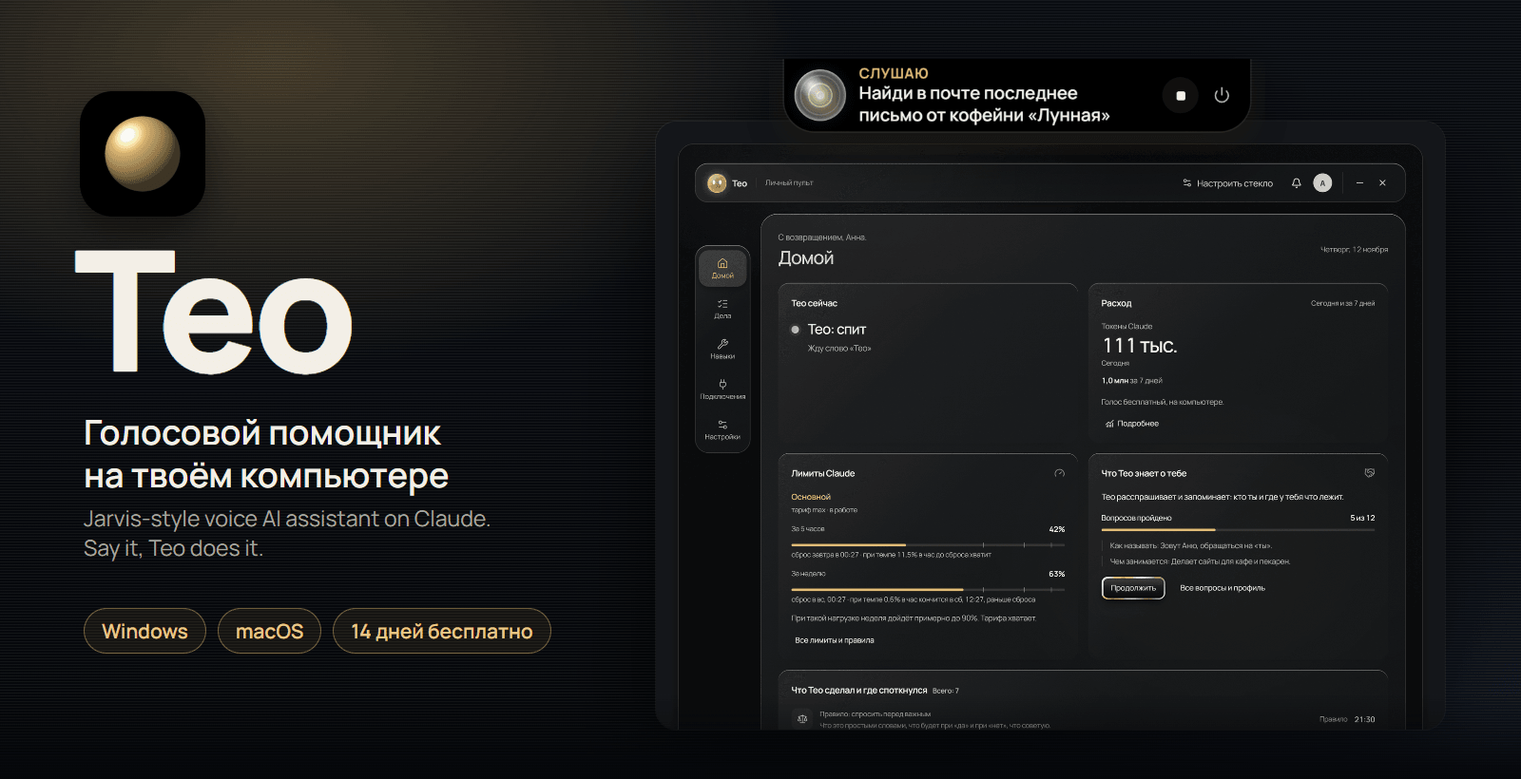
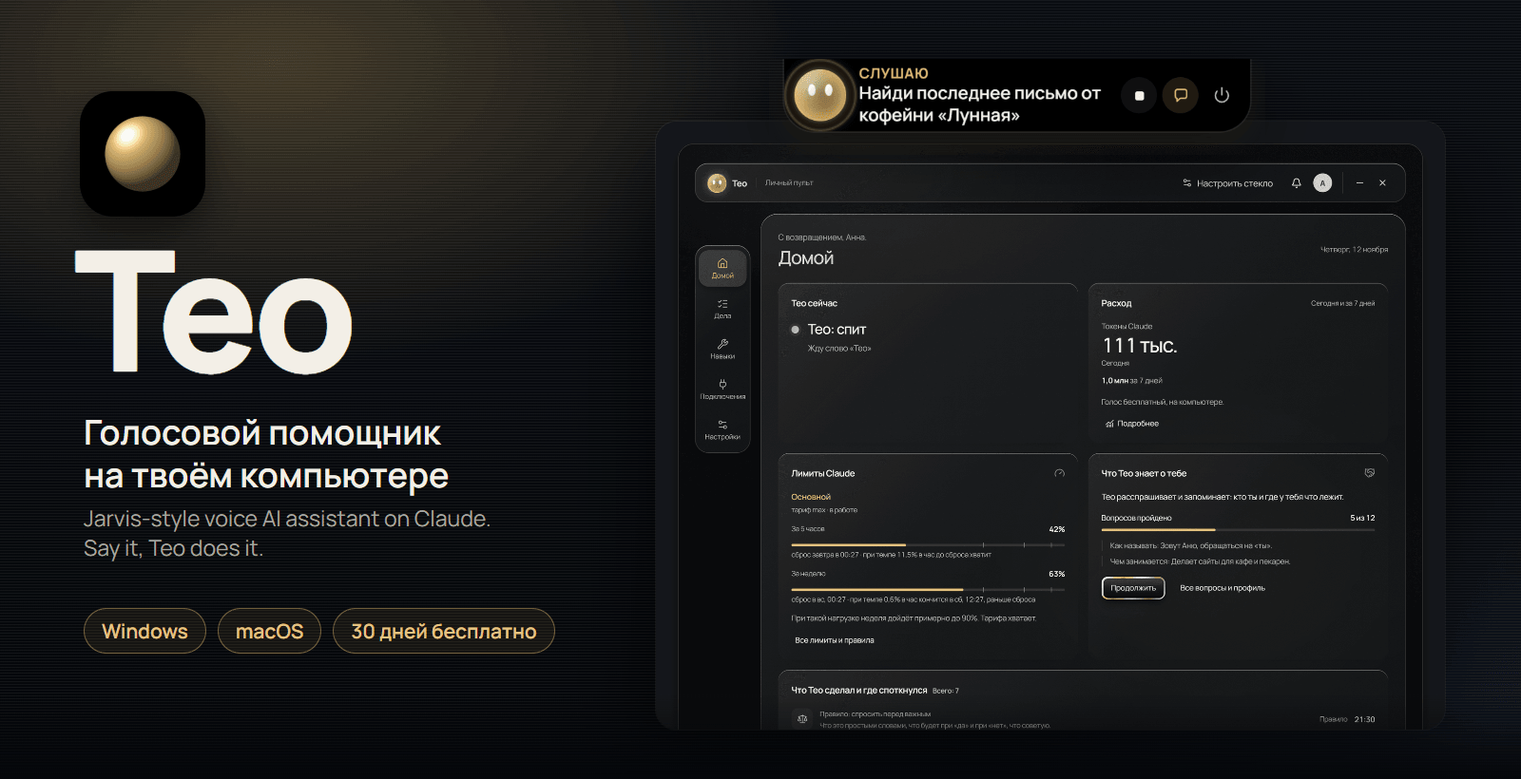
30 дней бесплатно везде, автор для инвесторов, капсула с Dots на снимках
- README ru и en, FAQ, дорожная карта: пробный период 30 дней (история версий не тронута)
- Блок «Автор / Author»: Александр Тарарушкин, Instagram @saint4ai для инвесторов и партнёров
- Скачивание: ссылки на последний выпуск, установщик Windows 1.0.0-beta.4
- Обложка, social preview и лист капсулы пересняты с текущей программы (rel-8): аватар Dots с глазами, плашка «30 дней бесплатно»

Changed region(s): [[0.5, 0.061, 0.75, 0.1829], [0.2188, 0.7927, 0.375, 0.8232]]

diff --git a/README.md b/README.md
@@ -6,15 +6,15 @@
 
 **Jarvis на твоём компьютере.** Скажи «Тео», и он откроет программу, найдёт файл, разберёт почту или поправит таблицу. Работает на Claude. Есть версии для Windows и macOS.
 
-Бета 1.0.0-beta.3: **14 дней бесплатно, весь функционал. Потом $10 в месяц.** Для работы Тео нужна подписка Claude от $20 в месяц.
+Бета 1.0.0-beta.4: **30 дней бесплатно, весь функционал. Потом $10 в месяц.** Для работы Тео нужна подписка Claude от $20 в месяц.
 
 ![Статус](https://img.shields.io/badge/%D1%81%D1%82%D0%B0%D1%82%D1%83%D1%81-%D0%B1%D0%B5%D1%82%D0%B0-e8c887?style=flat-square)
 ![Windows](https://img.shields.io/badge/Windows-10%20%D0%B8%2011-3b82f6?style=flat-square&logo=windows&logoColor=white)
 ![macOS](https://img.shields.io/badge/macOS-13%2B%20%28Apple%20Silicon%29-555?style=flat-square&logo=apple&logoColor=white)
-![Цена](https://img.shields.io/badge/%D0%B1%D0%B5%D1%82%D0%B0-14%20%D0%B4%D0%BD%D0%B5%D0%B9%20%D0%B1%D0%B5%D1%81%D0%BF%D0%BB%D0%B0%D1%82%D0%BD%D0%BE%2C%20%D0%BF%D0%BE%D1%82%D0%BE%D0%BC%20%2410%20%D0%B2%20%D0%BC%D0%B5%D1%81%D1%8F%D1%86-2ea043?style=flat-square)
+![Цена](https://img.shields.io/badge/%D0%B1%D0%B5%D1%82%D0%B0-30%20%D0%B4%D0%BD%D0%B5%D0%B9%20%D0%B1%D0%B5%D1%81%D0%BF%D0%BB%D0%B0%D1%82%D0%BD%D0%BE%2C%20%D0%BF%D0%BE%D1%82%D0%BE%D0%BC%20%2410%20%D0%B2%20%D0%BC%D0%B5%D1%81%D1%8F%D1%86-2ea043?style=flat-square)
 ![Работает на Claude](https://img.shields.io/badge/%D1%80%D0%B0%D0%B1%D0%BE%D1%82%D0%B0%D0%B5%D1%82%20%D0%BD%D0%B0-Claude-d97757?style=flat-square)
 
-**[Скачать бета-версию](https://github.com/saint4ai/teo-jarvis/releases)** · [Как поставить](#как-поставить) · [Что умеет](#что-умеет-тео) · [FAQ](docs/FAQ.md) · [English](README.en.md)
+**[Скачать бета-версию](https://github.com/saint4ai/teo-jarvis/releases/latest)** · [Как поставить](#как-поставить) · [Что умеет](#что-умеет-тео) · [FAQ](docs/FAQ.md) · [Автор](#автор--author) · [English](README.en.md)
 
 ---
 
@@ -94,7 +94,7 @@
 
 ### Windows
 
-**1.** Открой [Releases](https://github.com/saint4ai/teo-jarvis/releases) и скачай `Teo-Setup-1.0.0-beta.3.exe`. Браузер спросит про файл: нажми «Сохранить» или «Оставить».
+**1.** Открой [последний выпуск](https://github.com/saint4ai/teo-jarvis/releases/latest) и скачай `Teo-Setup-1.0.0-beta.4.exe`. Браузер спросит про файл: нажми «Сохранить» или «Оставить».
 
 **2.** Запусти файл двойным щелчком. Права администратора не нужны.
 
@@ -116,7 +116,7 @@
 
 ![Образ Тео: перетащи Тео в «Программы»](assets/install/mac-1-dmg.png)
 
-**1.** Скачай файл `.dmg` из [Releases](https://github.com/saint4ai/teo-jarvis/releases), открой и перетащи Тео в «Программы».
+**1.** Скачай файл `.dmg` из [последнего выпуска](https://github.com/saint4ai/teo-jarvis/releases/latest), открой и перетащи Тео в «Программы».
 
 <img src="assets/install/mac-2-dialog.png" alt="Предупреждение macOS: нажми «Готово»" width="320">
 
@@ -144,7 +144,7 @@
    - **По почте.** В блоке «Новый аккаунт» впиши почту, пароль от 8 знаков, повтори пароль и выбери страну: от неё зависит валюта оплаты. Нажми «Создать аккаунт». Аккаунт уже есть: блок «Уже есть аккаунт», почта и пароль.
    - **Через Telegram.** Нажми кнопку Telegram. Telegram пришлёт сообщение «Мы получили запрос на авторизацию», нажми в нём «Принять». На странице это показано картинкой. Бот входа: @teojarvis_bot.
 
-Пароль вводи только на странице: Тео его не видит и не хранит. Писем на почту пока не шлём. Пробные 14 дней начинаются с первого входа.
+Пароль вводи только на странице: Тео его не видит и не хранит. Писем на почту пока не шлём. Пробные 30 дней начинаются с первого входа.
 
 При первом запуске Тео докачает модели: распознавание речи около 640 МБ и память около 130 МБ. На скорости 20 Мбит/с это около 5 минут. Пока файлы качаются, шаги можно проходить.
 
@@ -162,16 +162,16 @@
 
 Google Диск, Google Календарь и другие сервисы подключаются через Claude. Почта подключается в Тео отдельно. Инструкция: [docs/CONNECTORS.md](docs/CONNECTORS.md).
 
-## Бета: 14 дней бесплатно, потом $10 в месяц
+## Бета: 30 дней бесплатно, потом $10 в месяц
 
 | | |
 |---|---|
-| **Пробный период** | 14 дней, весь функционал. Карту не просим. Начинается с первого входа в Тео. Даётся один раз на почту, на аккаунт Telegram и на компьютер |
+| **Пробный период** | 30 дней, весь функционал. Карту не просим. Начинается с первого входа в Тео. Даётся один раз на почту, на аккаунт Telegram и на компьютер |
 | **Потом** | $10 в месяц, тариф один. Сумму в валюте оплаты видно на странице оплаты до оплаты. Автосписания нет: продлеваешь сам |
 | **Где оплатить** | В Тео: «Настройки», раздел «Аккаунт Тео и подписка» |
 | **Два способа** | «Оплата Россия»: картой банка РФ, оплата сразу. «Оплата другие страны»: картой банка не из России, ссылка на оплату приходит по СМС |
 | **Вернуть деньги** | Вернём за дни, которые ещё не наступили. Условия в [оферте](https://teo.onai.academy/terms) |
-| **После 14 дней без оплаты** | Ответы ИИ выключаются. Команды без ИИ, память и настройки остаются |
+| **После 30 дней без оплаты** | Ответы ИИ выключаются. Команды без ИИ, память и настройки остаются |
 | **Компьютер** | Один аккаунт, один компьютер. Перенести можно раз в 30 дней |
 
 Аккаунт, подписку и платежи видно на странице [teo.onai.academy/account](https://teo.onai.academy/account). Там же можно отвязать компьютер и удалить аккаунт.
@@ -181,6 +181,12 @@ Google Диск, Google Календарь и другие сервисы под
 - Почта: [saint4aiinst@gmail.com](mailto:saint4aiinst@gmail.com). Назови номер аккаунта: он на странице аккаунта.
 - Форма «Оставить отзыв» в Тео: «Настройки», блок «Поддержка». Туда же пиши идеи.
 - Ошибки Тео отправляет разработчикам сам, без твоих разговоров, файлов и ключей. Это выключается в «Настройках», блок «Приватность».
+
+## Автор / Author
+
+**Автор Тео: Александр Тарарушкин.** Для инвесторов и партнёров: Instagram [@saint4ai](https://www.instagram.com/saint4ai/).
+
+*Teo is made by Alexander Tararushkin. For investors and partners: Instagram [@saint4ai](https://www.instagram.com/saint4ai/).*
 
 ## Приватность
 

diff --git a/README.en.md b/README.en.md
@@ -6,15 +6,15 @@
 
 **Jarvis for your own computer.** Say "Teo" and it opens apps, finds files, reads your mail or edits a spreadsheet. It runs on Claude. Windows and macOS.
 
-Beta 1.0.0-beta.3: **14 days free, every feature included. Then $10 a month.** Teo needs a Claude subscription from $20 a month.
+Beta 1.0.0-beta.4: **30 days free, every feature included. Then $10 a month.** Teo needs a Claude subscription from $20 a month.
 
 ![Status](https://img.shields.io/badge/status-beta-e8c887?style=flat-square)
 ![Windows](https://img.shields.io/badge/Windows-10%20and%2011-3b82f6?style=flat-square&logo=windows&logoColor=white)
 ![macOS](https://img.shields.io/badge/macOS-13%2B%20%28Apple%20Silicon%29-555?style=flat-square&logo=apple&logoColor=white)
-![Price](https://img.shields.io/badge/beta-14%20days%20free%2C%20then%20%2410%20a%20month-2ea043?style=flat-square)
+![Price](https://img.shields.io/badge/beta-30%20days%20free%2C%20then%20%2410%20a%20month-2ea043?style=flat-square)
 ![Runs on Claude](https://img.shields.io/badge/runs%20on-Claude-d97757?style=flat-square)
 
-**[Download the beta](https://github.com/saint4ai/teo-jarvis/releases)** · [Install](#install) · [Features](#what-teo-does) · [FAQ](docs/FAQ.en.md) · [Русский](README.md)
+**[Download the beta](https://github.com/saint4ai/teo-jarvis/releases/latest)** · [Install](#install) · [Features](#what-teo-does) · [FAQ](docs/FAQ.en.md) · [Author](#author) · [Русский](README.md)
 
 ---
 
@@ -84,7 +84,7 @@ Details: [docs/REQUIREMENTS.en.md](docs/REQUIREMENTS.en.md).
 
 ### Windows
 
-**1.** Open [Releases](https://github.com/saint4ai/teo-jarvis/releases) and download `Teo-Setup-1.0.0-beta.3.exe`. The browser may ask about the file: click Keep.
+**1.** Open the [latest release](https://github.com/saint4ai/teo-jarvis/releases/latest) and download `Teo-Setup-1.0.0-beta.4.exe`. The browser may ask about the file: click Keep.
 
 **2.** Run the file with a double click. No administrator rights needed.
 
@@ -106,7 +106,7 @@ The Mac image is added to the release separately from the Windows installer. If 
 
 ![Teo disk image: drag Teo to Applications](assets/install/mac-1-dmg.png)
 
-**1.** Download the `.dmg` file from [Releases](https://github.com/saint4ai/teo-jarvis/releases), open it and drag Teo to Applications.
+**1.** Download the `.dmg` file from the [latest release](https://github.com/saint4ai/teo-jarvis/releases/latest), open it and drag Teo to Applications.
 
 <img src="assets/install/mac-2-dialog.png" alt="macOS warning: click Done" width="320">
 
@@ -134,7 +134,7 @@ Teo setup walks you through: computer check, Teo account, microphone, wake word,
    - **With email.** In the "New account" block, enter your email, a password of at least 8 characters, the password again, and choose your country: the payment currency depends on it. Click "Create account". Already have an account? Use the "Already have an account" block with your email and password.
    - **With Telegram.** Click the Telegram button. Telegram sends you the message "We received a request to log in". Tap "Accept" in it. The page shows this in a picture. The sign-in bot is @teojarvis_bot.
 
-Enter your password only on that page: Teo does not see or store it. We do not send emails yet. The 14-day trial starts with your first sign-in.
+Enter your password only on that page: Teo does not see or store it. We do not send emails yet. The 30-day trial starts with your first sign-in.
 
 On first launch Teo downloads two models: speech recognition (about 640 MB) and memory (about 130 MB). That is about 5 minutes at 20 Mbit/s. You can go through the steps while they download.
 
@@ -144,16 +144,16 @@ On first launch Teo downloads two models: speech recognition (about 640 MB) and 
 
 Google Drive, Google Calendar and other services connect through Claude. Mail is set up in Teo separately. Guide: [docs/CONNECTORS.en.md](docs/CONNECTORS.en.md).
 
-## Beta: 14 days free, then $10 a month
+## Beta: 30 days free, then $10 a month
 
 | | |
 |---|---|
-| **Trial** | 14 days, every feature. No card asked. It starts with your first sign-in. You get it once per email, once per Telegram account and once per computer |
+| **Trial** | 30 days, every feature. No card asked. It starts with your first sign-in. You get it once per email, once per Telegram account and once per computer |
 | **After that** | $10 a month, one plan. The amount in the payment currency is shown on the payment page before you pay. No automatic charges: you renew yourself |
 | **Where to pay** | In Teo: Settings, "Teo account and subscription" |
 | **Two ways** | "Pay with a Russian bank card" («Оплата Россия»): a card from a Russian bank, paid at once. "Pay with a card from another country" («Оплата другие страны»): a card from a bank outside Russia, the payment link arrives by SMS |
 | **Refund** | We refund the days that have not started yet. Terms in the [offer](https://teo.onai.academy/terms) |
-| **After 14 days without payment** | AI answers switch off. Commands without AI, memory and settings stay |
+| **After 30 days without payment** | AI answers switch off. Commands without AI, memory and settings stay |
 | **Computer** | One account, one computer. You can move it once in 30 days |
 
 You can see your account, subscription and payments on the [teo.onai.academy/account](https://teo.onai.academy/account) page. You can also unlink the computer or delete the account there.
@@ -163,6 +163,10 @@ You can see your account, subscription and payments on the [teo.onai.academy/acc
 - Email: [saint4aiinst@gmail.com](mailto:saint4aiinst@gmail.com). Give your account number: it is on the account page.
 - The "Send feedback" form («Оставить отзыв») in Teo: Settings, Support block. Send ideas there too.
 - Teo sends error reports to the developers by itself, without your conversations, files or keys. You can turn this off in Settings, Privacy block.
+
+## Author
+
+**Teo is made by Alexander Tararushkin** (Александр Тарарушкин). For investors and partners: Instagram [@saint4ai](https://www.instagram.com/saint4ai/).
 
 ## Privacy
 

diff --git a/docs/FAQ.md b/docs/FAQ.md
@@ -18,7 +18,7 @@
 
 ### Сколько стоит Тео?
 
-Первые 14 дней бесплатно, весь функционал включён, карту не просим. Потом $10 в месяц, тариф один. Сумму в валюте оплаты видно на странице оплаты до оплаты. Автосписания нет: продлеваешь сам. Подробнее: [Аккаунт и оплата](#аккаунт-и-оплата).
+Первые 30 дней бесплатно, весь функционал включён, карту не просим. Потом $10 в месяц, тариф один. Сумму в валюте оплаты видно на странице оплаты до оплаты. Автосписания нет: продлеваешь сам. Подробнее: [Аккаунт и оплата](#аккаунт-и-оплата).
 
 ### Какие языки?
 
@@ -41,7 +41,7 @@
 
 Забыл пароль? Если к аккаунту привязан Telegram, войди через него на странице аккаунта и смени пароль. Если нет, напиши на [saint4aiinst@gmail.com](mailto:saint4aiinst@gmail.com).
 
-### Что будет после 14 дней
+### Что будет после 30 дней
 
 Ответы ИИ выключаются до оплаты подписки. Команды без ИИ, память и настройки остаются. Тео покажет экран с кнопками оплаты.
 

diff --git a/docs/ROADMAP.md b/docs/ROADMAP.md
@@ -6,7 +6,7 @@
 
 ## Сейчас: бета 2
 
-- 14 дней бесплатно, весь функционал, потом $10 в месяц.
+- 30 дней бесплатно, весь функционал, потом $10 в месяц.
 - Windows 10 и 11, macOS 13+ на Apple Silicon.
 - Пульт на пять кнопок: Домой, Дела, Навыки, Подключения, Настройки.
 - Голос «Мужской 5» на компьютере бесплатно, ElevenLabs по своему ключу.
@@ -24,7 +24,7 @@
 - **Слабые компьютеры.** Лёгкий режим уже есть, будем делать его легче.
 - **Больше подключений.** Новые коннекторы Claude и готовые навыки под местные сервисы.
 - **Таблицы и документы Google без Office.**
-- **Цена после беты.** Сейчас $10 в месяц после пробных 14 дней. Если цена изменится, увидишь новую до оплаты. Автосписания нет: продлеваешь сам.
+- **Цена после беты.** Сейчас $10 в месяц после пробных 30 дней. Если цена изменится, увидишь новую до оплаты. Автосписания нет: продлеваешь сам.
 
 ## Чего пока нет
 

diff --git a/docs/FAQ.en.md b/docs/FAQ.en.md
@@ -18,7 +18,7 @@ No. Everything is inside the installer or downloads on first launch.
 
 ### How much does Teo cost?
 
-The first 14 days are free with every feature. No card needed. After that it is $10 a month, one plan. The amount in the payment currency is shown on the payment page before you pay. No automatic charges: you renew yourself. More: [Account and payment](#account-and-payment).
+The first 30 days are free with every feature. No card needed. After that it is $10 a month, one plan. The amount in the payment currency is shown on the payment page before you pay. No automatic charges: you renew yourself. More: [Account and payment](#account-and-payment).
 
 ### Which languages work?
 
@@ -41,7 +41,7 @@ You can add the second sign-in method later on the [teo.onai.academy/account](ht
 
 Forgot your password? If a Telegram account is linked, sign in with it on the account page and change the password. If not, write to [saint4aiinst@gmail.com](mailto:saint4aiinst@gmail.com).
 
-### What happens after 14 days?
+### What happens after 30 days?
 
 AI answers switch off until you pay for the subscription. Commands without AI, memory and settings stay. Teo shows a screen with the payment buttons.
 

diff --git a/docs/ROADMAP.en.md b/docs/ROADMAP.en.md
@@ -6,7 +6,7 @@ Directions, not promised dates. The order changes based on what beta testers tel
 
 ## Now: beta 2
 
-- A 14-day free trial with every feature, then $10 a month.
+- A 30-day free trial with every feature, then $10 a month.
 - Windows 10 and 11, macOS 13 or newer on Apple Silicon.
 - A Dashboard with five buttons: Home, Work, Skills, Connections, Settings.
 - The "Male 5" on-device voice («Мужской 5») for free, ElevenLabs with your own key.
@@ -24,7 +24,7 @@ Directions, not promised dates. The order changes based on what beta testers tel
 - **Weak computers.** The light mode already exists. We will keep making it lighter.
 - **More connections.** New Claude connectors and ready-made skills for local services.
 - **Google Sheets and Google Docs without Office.**
-- **Price after the beta.** Today it is $10 a month after the 14-day trial. If the price changes, you will see the new price before you pay. No automatic charges: you renew yourself.
+- **Price after the beta.** Today it is $10 a month after the 30-day trial. If the price changes, you will see the new price before you pay. No automatic charges: you renew yourself.
 
 ## Not yet
 

diff --git a/docs/INSTALL-MAC.md b/docs/INSTALL-MAC.md
@@ -2,7 +2,7 @@
 
 [English version](INSTALL-MAC.en.md) · [Назад к README](../README.md)
 
-Нужен Mac с чипом Apple (M1 и новее) и macOS 13 или новее. Тео ставится файлом `.dmg` из [Releases](https://github.com/saint4ai/teo-jarvis/releases).
+Нужен Mac с чипом Apple (M1 и новее) и macOS 13 или новее. Тео ставится файлом `.dmg` из [последнего выпуска](https://github.com/saint4ai/teo-jarvis/releases/latest).
 
 Образ для Mac кладут в выпуск отдельно от установщика Windows. Если файла `.dmg` там ещё нет, версия для Mac готовится.
 

diff --git a/docs/INSTALL-MAC.en.md b/docs/INSTALL-MAC.en.md
@@ -2,7 +2,7 @@
 
 [Русская версия](INSTALL-MAC.md) · [Back to README](../README.en.md)
 
-You need a Mac with an Apple chip (M1 or newer) and macOS 13 or newer. Teo comes as a `.dmg` file from [Releases](https://github.com/saint4ai/teo-jarvis/releases).
+You need a Mac with an Apple chip (M1 or newer) and macOS 13 or newer. Teo comes as a `.dmg` file from the [latest release](https://github.com/saint4ai/teo-jarvis/releases/latest).
 
 The Mac image is added to the release separately from the Windows installer. If there is no `.dmg` file there yet, the Mac version is being prepared.
 
